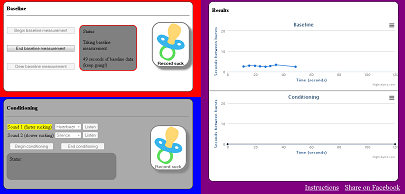
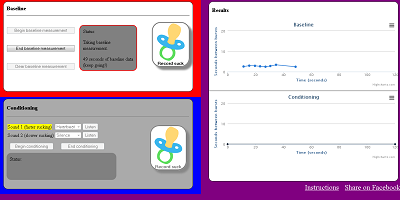
Cosmetic updates (adding resources coming soon, removing news, and adding hash links for sections of the website)

diff --git a/lookitWeb/jswcam/fragments/faq.html b/lookitWeb/jswcam/fragments/faq.html
@@ -135,7 +135,7 @@
 	<ul>
 	<li> Make it easier for you to take part in research, especially for families without a stay-at-home parent</li>
 	<li> Work with more kids when needed--right now a limiting factor in designing studies is the time it takes to recruit participants </li>
-	<li> Draw conclusions from a more representative population of families--not just those who live near a university and are able to visit the lab during the day</li>
+	<li> Draw conclusions from a more representative population of families--not just those who live near a university and are able to visit the lab during the day. (To learn more about efforts throughout the scientific community to represent a broader range of subjects, visit <a href='http://lessweird.org/' target='_blank'>Making Science Less WEIRD</a>!)</li>
 	<li> Make it easier for families to continue participating in longitudinal studies, which may involve multiple testing sessions separated by months or years </li>
 	<li> Observe more natural behavior because children are at home rather than in an unfamiliar place </li>
 	<li> Create a system for learning about special populations--for instance, children with specific developmental disorders </li>

diff --git a/lookitWeb/jswcam/fragments/about.html b/lookitWeb/jswcam/fragments/about.html
@@ -21,21 +21,8 @@
 	
 </div>
 
-
 </div>
 
-<img class='logoimg' src='./img/lookitlogo.png' style='height:100px; width: 100px'>
-<div class='blurb' id='newsblurb'>
-<div class="title">
-    <h2><p>News</h2>
-</div>	
-<p>
-<table>
-<tr> 
-<td> Feb. 5, 2014 </td> <td> Testing of Lookit within the MIT community begins!  Many thanks to our first volunteers. </td>
-</tr>
-</table>
-</div>
 
 <div style='text-align:right; margin-top:100px;'>
 This material is based on work supported by the NSF Graduate Research Fellowship under Grant No. 1122374. <img id='nsflogo' src='./img/nsf.gif'>

diff --git a/lookitWeb/jswcam/index.js b/lookitWeb/jswcam/index.js
@@ -35,7 +35,13 @@ if(!$.isFunction(String.prototype.hashCode)) {
 	$(".loginDiv").hide();
 	$(".login_hide").show(300);
 
-	page.show('about');
+	if(window.location.hash) {
+      		page.show(window.location.hash.substring(1));
+  	} else {
+      		page.show('about');
+  	}
+	
+	
 
 	});
 

diff --git a/lookitWeb/jswcam/index.php b/lookitWeb/jswcam/index.php
@@ -82,6 +82,7 @@ if(!isset($_SESSION['user']['id'])){
   	printf("var experiments = %s;", json_encode($experiments));
   	load_fragments(get_default_fragments());
     ?>
+	
     </script>
     <script type="text/javascript">
       var _gaq = _gaq || [];
@@ -120,12 +121,12 @@ if(!isset($_SESSION['user']['id'])){
 		          <div class="nav-collapse collapse" style="*height:40px;">
 		            <ul class="nav">
 		              <ul class="nav">
-		            		<li class="about active"><a href="#" onclick="page.show('about')">Home</a></li>
-		            		<li class="home"><a href="#" onclick="page.show('home')">Participate in a study!</a></li>
-		            		<li class="faq"><a href="#" onclick="page.show('faq')">FAQ</a></li>		
-		            		<li class="thescientists"><a href="#" onclick="page.show('thescientists')">The Scientists</a></li>
-					<li class="resources"><a href="#" onclick="page.show('resources')">Resources</a></li>
-		            		<li class="contact"><a href="#" onclick="page.show('contact')">Contact Us</a></li>
+		            		<li class="about active"><a href="#about" onclick="page.show('about')">Home</a></li>
+		            		<li class="home"><a href="#home" onclick="page.show('home')">Participate in a study!</a></li>
+		            		<li class="faq"><a href="#faq" onclick="page.show('faq')">FAQ</a></li>		
+		            		<li class="thescientists"><a href="#thescientists" onclick="page.show('thescientists')">The Scientists</a></li>
+					<li class="resources"><a href="#resources" onclick="page.show('resources')">Resources</a></li>
+		            		<li class="contact"><a href="#contact" onclick="page.show('contact')">Contact Us</a></li>
 		         	    </ul>
 		      	    </ul>
 		            <ul class="nav_log" style="*width:auto; *float:right; *display:inline;">
